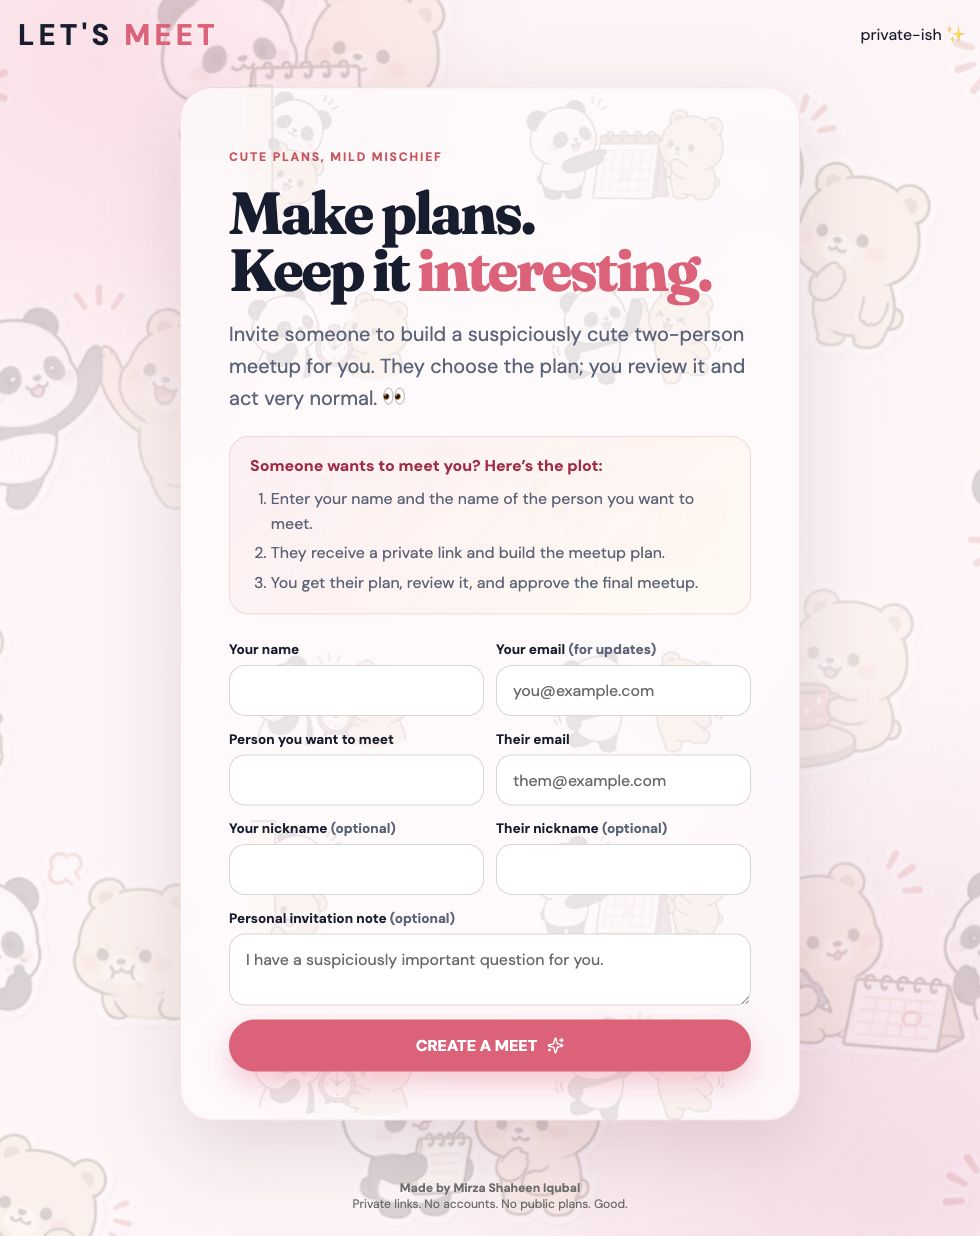
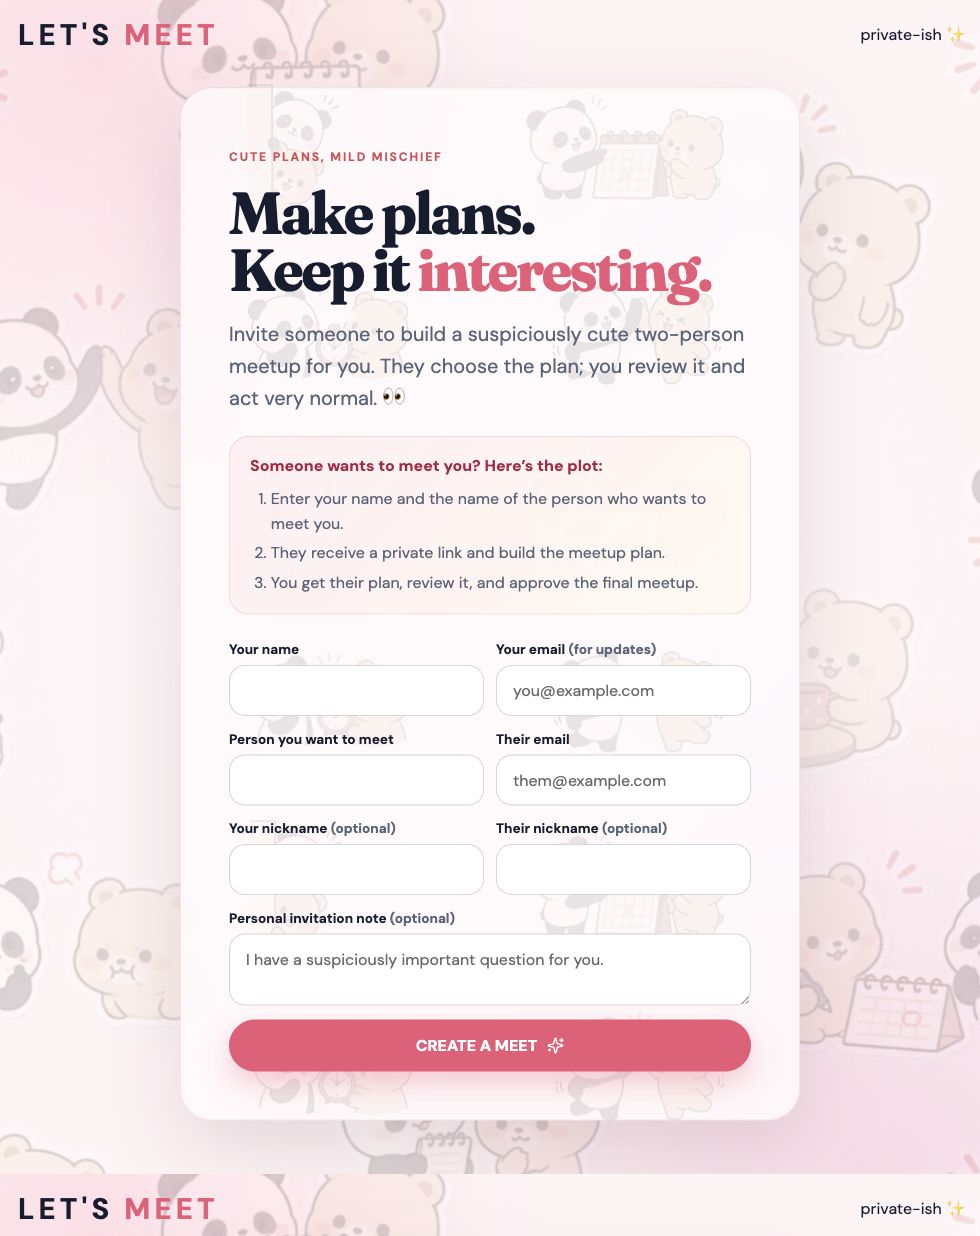
Prevent malformed invitation errors

Changed region(s): [[0.0, 0.9531, 0.6429, 1.0], [0.8571, 0.9531, 1.0, 0.9838], [0.6122, 0.3997, 0.7041, 0.4304]]

diff --git a/frontend/src/hooks/useInvitation.ts b/frontend/src/hooks/useInvitation.ts
@@ -1,10 +1,16 @@
 import { useEffect, useState } from "react";
+import { useNavigate } from "react-router-dom";
 import { api } from "../api/client";
 import type { Invitation } from "../types";
 export function useInvitation(role: "guest" | "host", token: string) {
+  const navigate = useNavigate();
   const [data, setData] = useState<Invitation>();
   const [error, setError] = useState("");
+  const validToken = /^[A-Za-z0-9_-]{32,}$/.test(token);
   const reload = () =>
+    !validToken
+      ? Promise.resolve(navigate("/", { replace: true }))
+      :
     api
       .get(role, token)
       .then((value) => {
@@ -19,7 +25,11 @@ export function useInvitation(role: "guest" | "host", token: string) {
         setError(e.response?.data?.detail || "The server did not answer after several tries. It may be waking up—try once more. 🗿");
       });
   useEffect(() => {
+    if (!validToken) {
+      navigate("/", { replace: true });
+      return;
+    }
     void reload();
-  }, [role, token]);
+  }, [role, token, validToken, navigate]);
   return { data, error, reload };
 }

diff --git a/frontend/src/pages/GuestInvite.test.tsx b/frontend/src/pages/GuestInvite.test.tsx
@@ -17,7 +17,7 @@ test("renders nicknames and retires the no button after six playful escapes", as
   } as any);
   const user = userEvent.setup();
   render(
-    <MemoryRouter initialEntries={["/invite/token"]}>
+    <MemoryRouter initialEntries={["/invite/test_token_that_matches_a_real_private_link_123"]}>
       <Routes>
         <Route path="/invite/:guestToken" element={<GuestInvite />} />
       </Routes>
